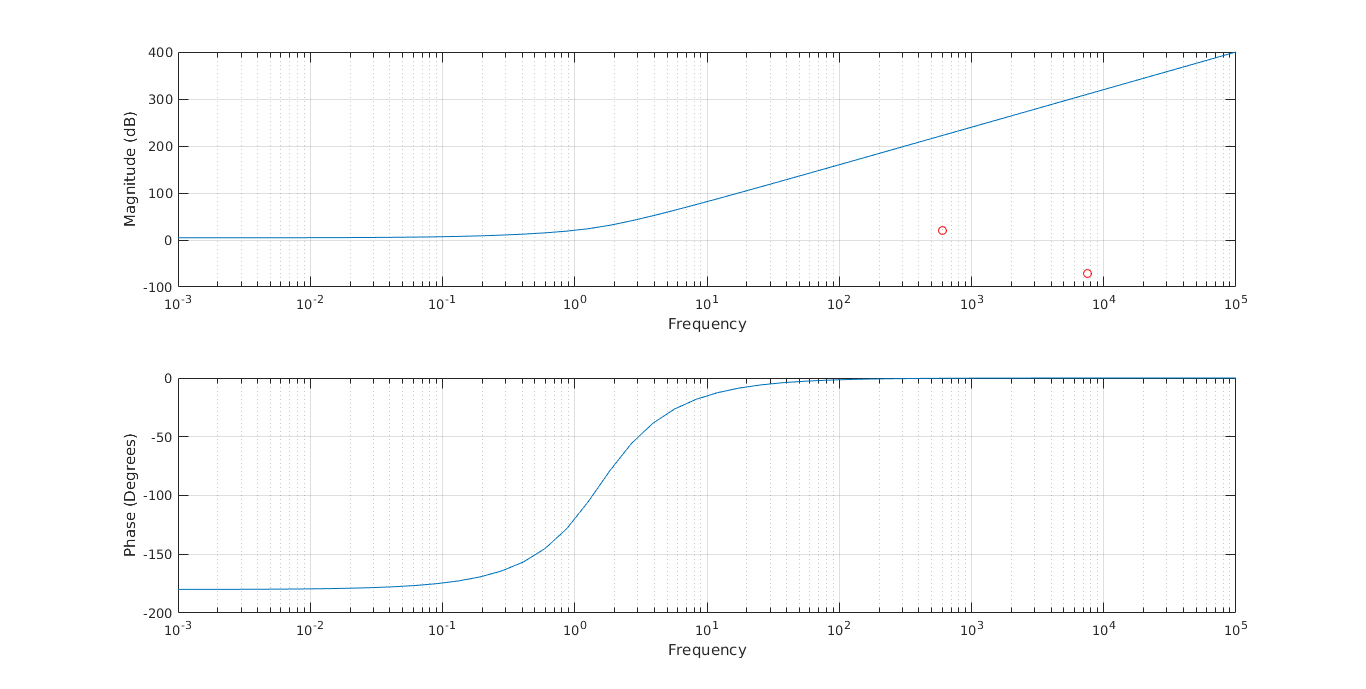
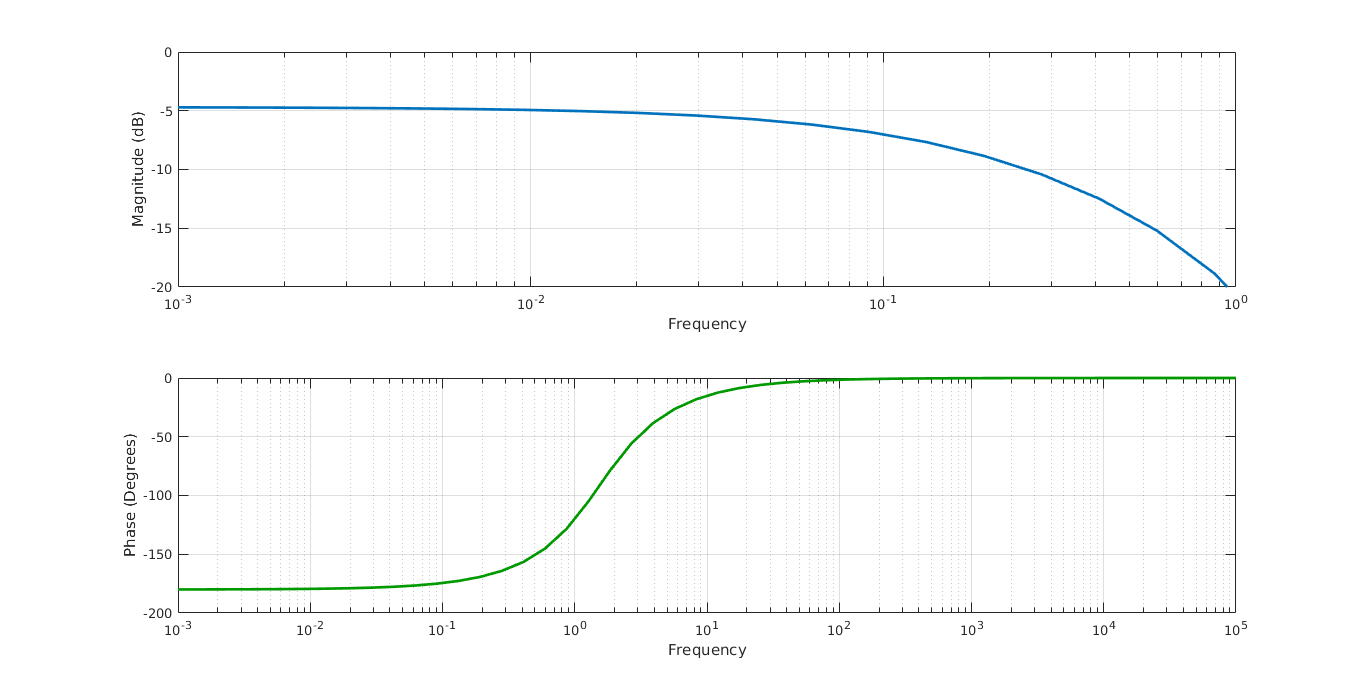
complete bs

diff --git a/final/scripts/num14_main.m b/final/scripts/num14_main.m
@@ -27,21 +27,22 @@ h = freqs(b,a,w); %// Output of freqs
 mag = 20*log10(abs(h)); %// Magnitude in dB
 pha = (180/pi)*angle(h); %// Phase in degrees
 
-%// Declare points
-wpt = [600, 7500];
-mpt = [20, -71];
+% %// Declare points
+% wpt = [600, 7500];
+% mpt = [20, -71];
 
 %// Plot the magnitude as well as markers
 figure;
 subplot(2,1,1);
-semilogx(w, mag, wpt, mpt, 'ro');
+semilogx(w, -mag, 'linewidth', 2);
+ylim([-20 0])
 xlabel('Frequency');
 ylabel('Magnitude (dB)');
 grid;
 
 %// Plot phase
 subplot(2,1,2);
-semilogx(w, pha);
+semilogx(w, pha, 'color', [0 0.6 0], 'linewidth', 2);
 xlabel('Frequency');
 ylabel('Phase (Degrees)');
 grid;
